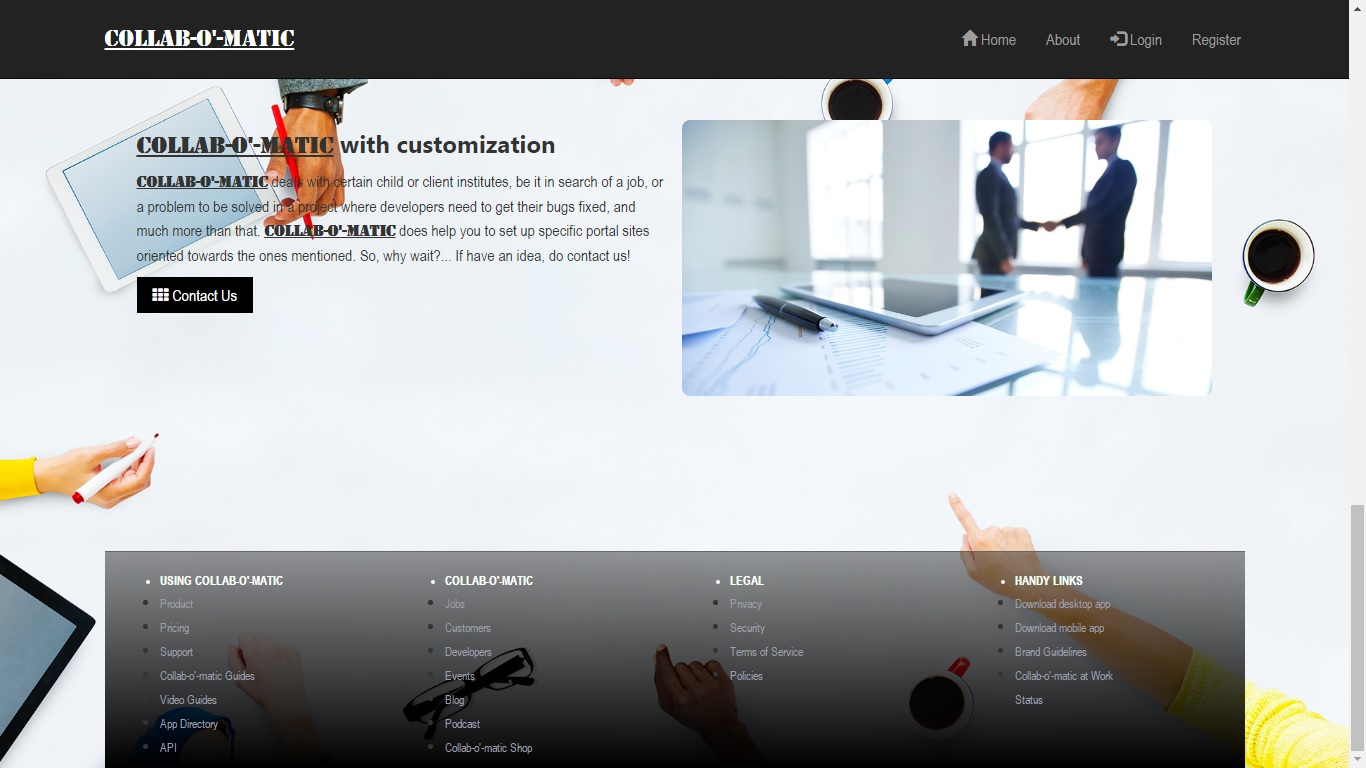
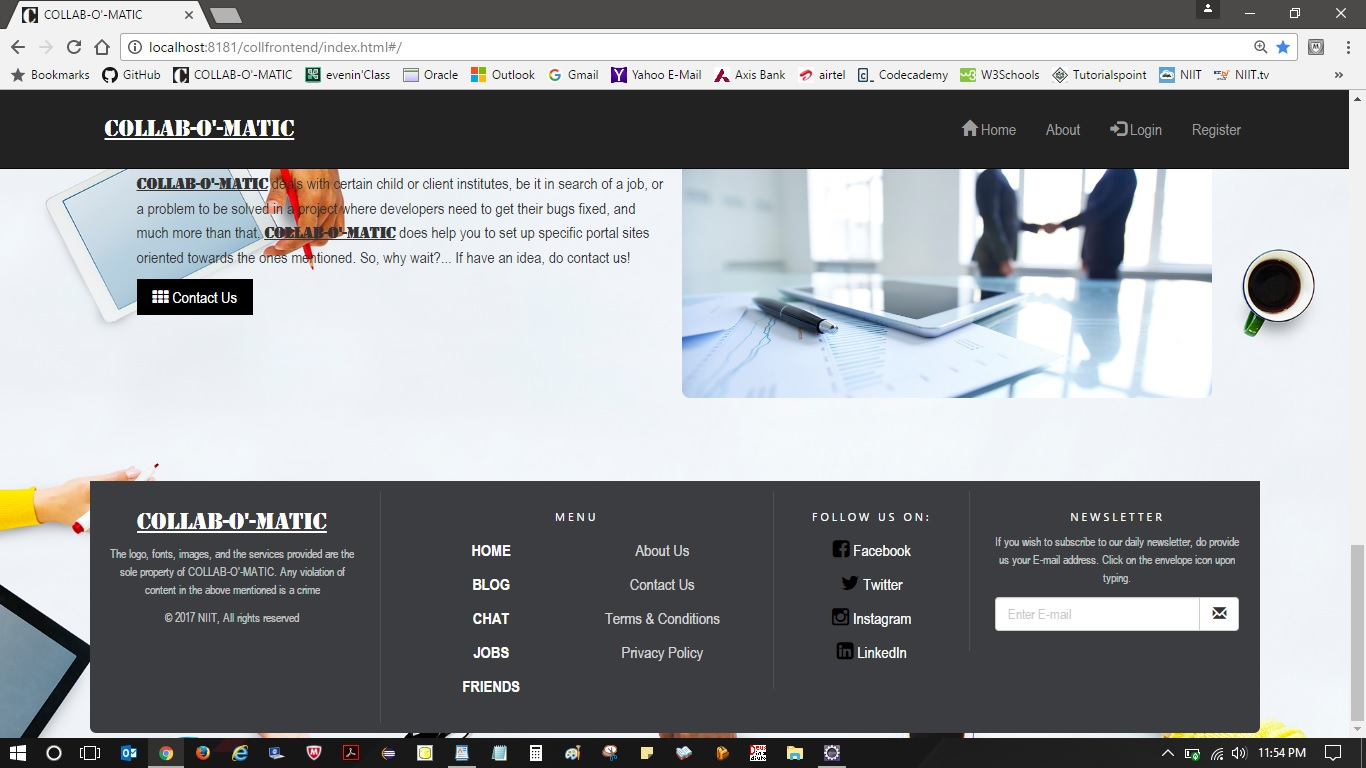
Modifications and Wiki

diff --git a/MAIN PROJECT/collfrontend/WebContent/_home/home.html b/MAIN PROJECT/collfrontend/WebContent/_home/home.html
@@ -65,57 +65,60 @@
     </div>
   </div>
 </div>
-<br><br><br><br>
-<footer class="footer">
-			<section class="links">
-				<div class="grid">
-					<div class="col-md-3 col-xs-12">
-						<ul>
-							<li class="cat">Using Collab-o'-matic</li>
-							<li><a href="" data-qa="product_footer" data-clog-event="WEBSITE_CLICK" data-clog-params="click_target=footer_product">Product</a></li>
-							<li><a href="" data-qa="pricing_footer" data-clog-event="WEBSITE_CLICK" data-clog-params="click_target=footer_pricing">Pricing</a></li>
-							<li><a href="" data-qa="support_footer" data-clog-event="WEBSITE_CLICK" data-clog-params="click_target=footer_support">Support</a></li>
-							<li><a href="" data-qa="getting_started" data-clog-event="WEBSITE_CLICK" data-clog-params="click_target=footer_getting_started">Collab-o'-matic Guides</a></li>
-							<li><a href="" data-qa="video_guides" data-clog-event="WEBSITE_CLICK" data-clog-params="click_target=footer_video_guides">Video Guides</a></li>
-							<li><a href="" data-qa="app_directory" data-clog-event="WEBSITE_CLICK" data-clog-params="click_target=footer_app_directory">App Directory</a></li>
-							<li><a href="" data-qa="api" data-clog-event="WEBSITE_CLICK" data-clog-params="click_target=footer_api">API</a></li>
-						</ul>
-					</div>
-					<div class="col-md-3 col-xs-12">
-						<ul>
-							<li class="cat">collab-o'-matic</li>
-							<li><a href="" data-qa="jobs" data-clog-event="WEBSITE_CLICK" data-clog-params="click_target=footer_jobs">Jobs</a></li>
-							<li><a href="" data-qa="customers" data-clog-event="WEBSITE_CLICK" data-clog-params="click_target=footer_customers">Customers</a></li>
-							<li><a href="" data-qa="developers" data-clog-event="WEBSITE_CLICK" data-clog-params="click_target=footer_developers">Developers</a></li>
-							<li><a href="" data-qa="events" data-clog-event="WEBSITE_CLICK" data-clog-params="click_target=footer_events">Events</a></li>
-							<li><a href="" data-qa="blog_footer" data-clog-event="WEBSITE_CLICK" data-clog-params="click_target=footer_blog">Blog</a></li>
-							<li><a href="" data-qa="podcast" data-clog-event="WEBSITE_CLICK" data-clog-params="click_target=footer_podcast">Podcast</a></li>
-							<li><a href="" data-qa="collab-o'-matic_shop" data-clog-event="WEBSITE_CLICK" data-clog-params="click_target=footer_collab-o'-matic_shop">Collab-o'-matic Shop</a></li>
-						</ul>
-					</div>
-					<div class="col-md-3 col-xs-12">
-						<ul>
-							<li class="cat">Legal</li>
-							<li><a href="" data-qa="privacy" data-clog-event="WEBSITE_CLICK" data-clog-params="click_target=footer_privacy">Privacy</a></li>
-							<li><a href="" data-qa="security" data-clog-event="WEBSITE_CLICK" data-clog-params="click_target=footer_security">Security</a></li>
-							<li><a href="" data-qa="tos" data-clog-event="WEBSITE_CLICK" data-clog-params="click_target=footer_tos">Terms of Service</a></li>
-							<li><a href="" data-qa="policies" data-clog-event="WEBSITE_CLICK" data-clog-params="click_target=footer_policies">Policies</a></li>
-						</ul>
-					</div>
-					<div class="col-md-3 col-xs-12">
-						<ul>
-							<li class="cat">Handy Links</li>
-							<li><a href="" data-qa="downloads" data-clog-event="WEBSITE_CLICK" data-clog-params="click_target=footer_downloads">Download desktop app</a></li>
-							<li><a href="" data-qa="downloads_mobile" data-clog-event="WEBSITE_CLICK" data-clog-params="click_target=footer_downloads_mobile">Download mobile app</a></li>
-							<li><a href="" data-qa="brand_guidelines" data-clog-event="WEBSITE_CLICK" data-clog-params="click_target=footer_brand_guidelines">Brand Guidelines</a></li>
-							<li><a href="" data-qa="collab-o'-matic_at_work" data-clog-event="WEBSITE_CLICK" data-clog-params="click_target=footer_collab-o'-matic_at_work">Collab-o'-matic at Work</a></li>
-							<li><a href="" data-qa="status" data-clog-event="WEBSITE_CLICK" data-clog-params="click_target=footer_status">Status</a></li>
-						</ul>
-					</div>
-				</div>
-			</section>
-			<div class="clearfix"></div>
-		</footer>
+<br>
+
+	<div class="row" style="text-align:center;">
+    <!----------- Footer ------------>
+    <footer class="footer-bs">
+        <div class="row">
+        	<div class="col-md-3 footer-brand animated fadeInLeft">
+            	<h2><font face="stencil" size="5" color="white"><u>COLLAB-O'-MATIC</u></font></h2>
+                <p>The logo, fonts, images, and the services provided are the sole property of COLLAB-O'-MATIC. Any violation of content in the above mentioned is a crime</p>
+                <p>&copy; 2017 NIIT, All rights reserved</p>
+            </div>
+        	<div class="col-md-4 footer-nav animated fadeInUp">
+            	<h4>Menu</h4>
+            	<div class="col-md-6">
+                    <ul class="pages">
+                        <li><a href="#">Home</a></li>
+                        <li><a href="#">Blog</a></li>
+                        <li><a href="#">Chat</a></li>
+                        <li><a href="#">Jobs</a></li>
+                        <li><a href="#">Friends</a></li>
+                    </ul>
+                </div>
+            	<div class="col-md-6">
+                    <ul class="list">
+                        <li><a href="#">About Us</a></li>
+                        <li><a href="#">Contact Us</a></li>
+                        <li><a href="#">Terms & Conditions</a></li>
+                        <li><a href="#">Privacy Policy</a></li>
+                    </ul>
+                </div>
+            </div>
+        	<div class="col-md-2 footer-social animated fadeInDown">
+            	<h4>Follow Us on:</h4>
+            	<ul>
+                	<li><a href="#"><i class="fa fa-facebook-square" style="font-size:20px;color:black"></i> Facebook</a></li>
+                	<li><a href="#"><i class="fa fa-twitter" style="font-size:20px;color:black"></i> Twitter</a></li>
+                	<li><a href="#"><i class="fa fa-instagram" style="font-size:20px;color:black"></i> Instagram</a></li>
+                	<li><a href="#"><i class="fa fa-linkedin-square" style="font-size:20px;color:black"></i> LinkedIn</a></li>
+                </ul>
+            </div>
+        	<div class="col-md-3 footer-ns animated fadeInRight">
+            	<h4>Newsletter</h4>
+                <p>If you wish to subscribe to our daily newsletter, do provide us your E-mail address. Click on the envelope icon upon typing.</p>
+                <p>
+                    <div class="input-group">
+                      <input type="text" class="form-control" placeholder="Enter E-mail">
+                      <span class="input-group-btn">
+                        <button class="btn btn-default" type="button"><span class="glyphicon glyphicon-envelope"></span></button>
+                      </span>
+                    </div><!-- /input-group -->
+                 </p>
+            </div>
+        </div>
+    </footer>
 
 </body>
 

diff --git a/MAIN PROJECT/collfrontend/WebContent/index.html b/MAIN PROJECT/collfrontend/WebContent/index.html
@@ -25,25 +25,59 @@ background-attachment: fixed;
 background-position: center; 
 background-size: cover; 
 }
-.footer
-{
-    border-top: 1px solid rgba(255,255,255,.4);
-	background: linear-gradient(to bottom,rgba(0,0,0,0.4) 0,#000 100%);
+
+.footer-bs {
+    background-color: #3c3d41;
+	padding: 10px 10px;
+	color: rgba(255,255,255,1.00);
+	margin-bottom: 5px;
+	border-bottom-right-radius: 6px;
+	border-top-left-radius: 0px;
+	border-bottom-left-radius: 6px;
 }
-.footer li.cat
-{
-    padding-top: 20px;
-    color: white;
-    font-size: 12px;
-    font-weight: 700;
-    text-transform: uppercase;
+.footer-bs .footer-brand, .footer-bs .footer-nav, .footer-bs .footer-social, .footer-bs .footer-ns { padding:10px 25px; }
+.footer-bs .footer-nav, .footer-bs .footer-social, .footer-bs .footer-ns { border-color: transparent; }
+.footer-bs .footer-brand h2 { margin:0px 0px 10px; }
+.footer-bs .footer-brand p { font-size:12px; color:rgba(255,255,255,0.70); }
+
+.footer-bs .footer-nav ul.pages { list-style:none; padding:0px; }
+.footer-bs .footer-nav ul.pages li { padding:5px 0px;}
+.footer-bs .footer-nav ul.pages a { color:rgba(255,255,255,1.00); font-weight:bold; text-transform:uppercase; }
+.footer-bs .footer-nav ul.pages a:hover { color:rgba(255,255,255,0.80); text-decoration:none; }
+.footer-bs .footer-nav h4 {
+	font-size: 11px;
+	text-transform: uppercase;
+	letter-spacing: 3px;
+	margin-bottom:10px;
 }
-.footer li a
-{
-	font-size: 12px;
-    color: #9E9EA6;
-    text-decoration: none;
+
+.footer-bs .footer-nav ul.list { list-style:none; padding:0px; }
+.footer-bs .footer-nav ul.list li { padding:5px 0px;}
+.footer-bs .footer-nav ul.list a { color:rgba(255,255,255,0.80); }
+.footer-bs .footer-nav ul.list a:hover { color:rgba(255,255,255,0.60); text-decoration:none; }
+
+.footer-bs .footer-social ul { list-style:none; padding:0px; }
+.footer-bs .footer-social h4 {
+	font-size: 11px;
+	text-transform: uppercase;
+	letter-spacing: 3px;
 }
+.footer-bs .footer-social li { padding:5px 4px;}
+.footer-bs .footer-social a { color:rgba(255,255,255,1.00);}
+.footer-bs .footer-social a:hover { color:rgba(255,255,255,0.80); text-decoration:none; }
+
+.footer-bs .footer-ns h4 {
+	font-size: 11px;
+	text-transform: uppercase;
+	letter-spacing: 3px;
+	margin-bottom:10px;
+}
+.footer-bs .footer-ns p { font-size:12px; color:rgba(255,255,255,0.70); }
+
+@media (min-width: 768px) {
+	.footer-bs .footer-nav, .footer-bs .footer-social, .footer-bs .footer-ns { border-left:solid 1px rgba(255,255,255,0.10); }
+}
+
 .navbar-fixed-top
 {
    padding-top:14px;
